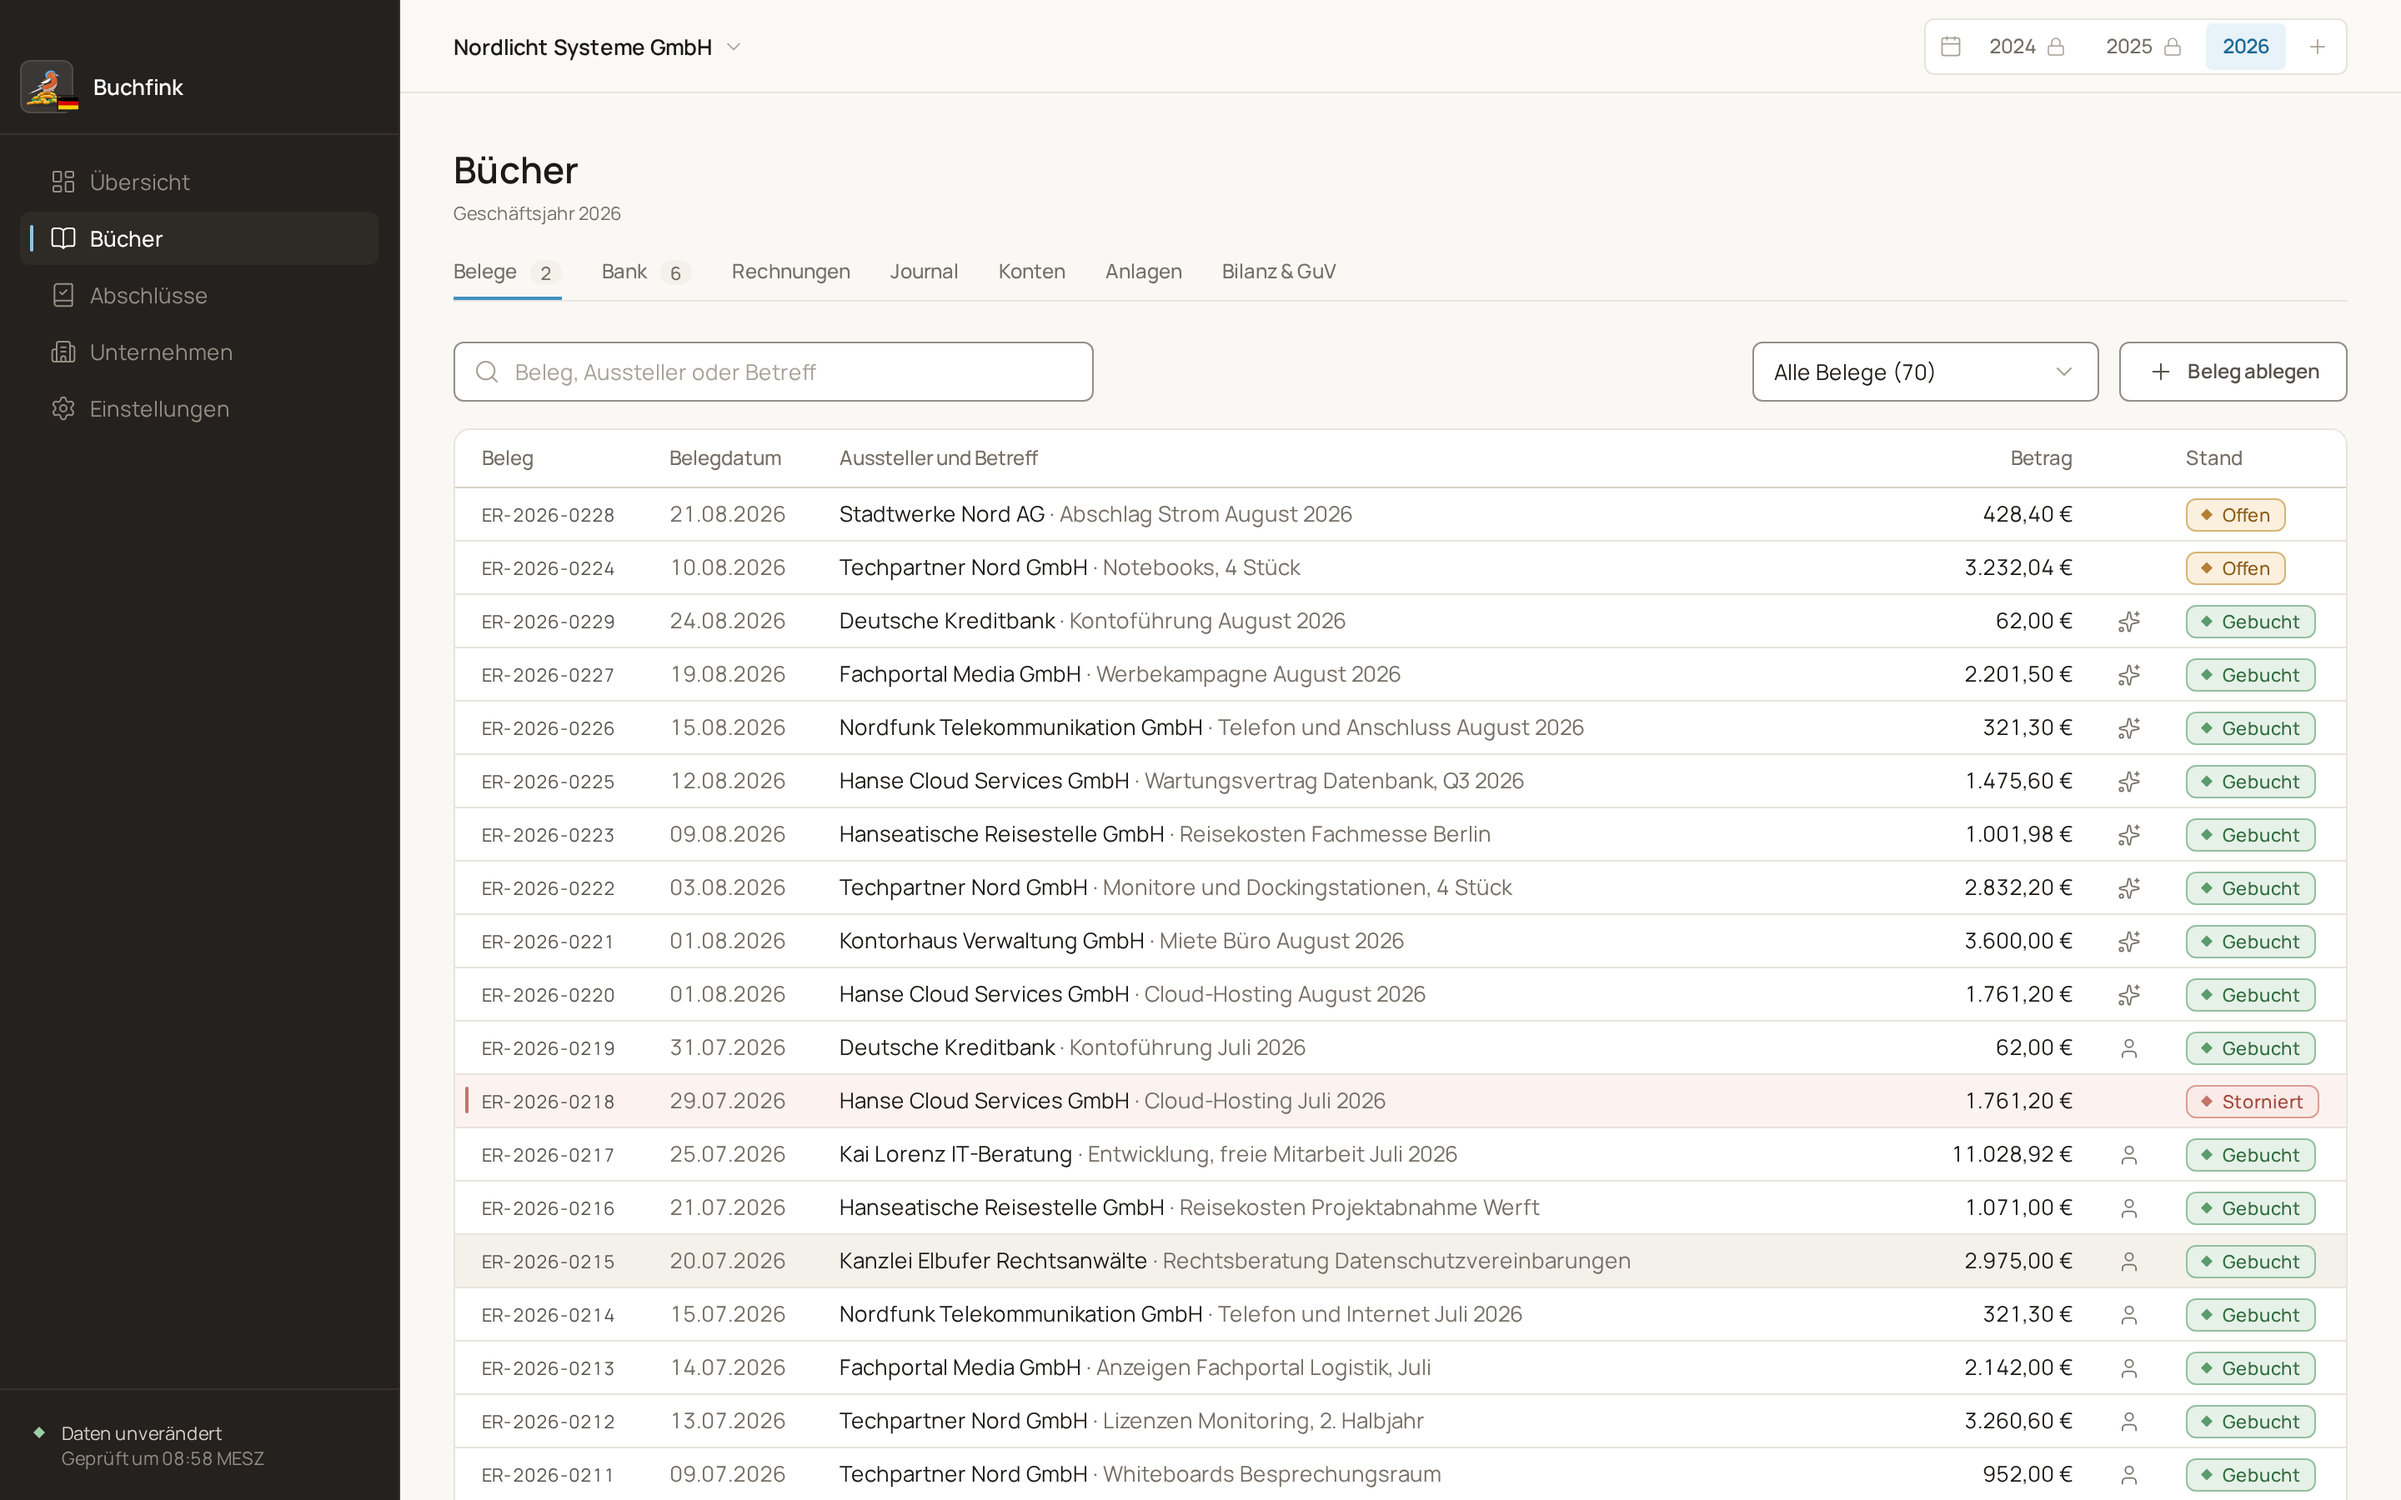
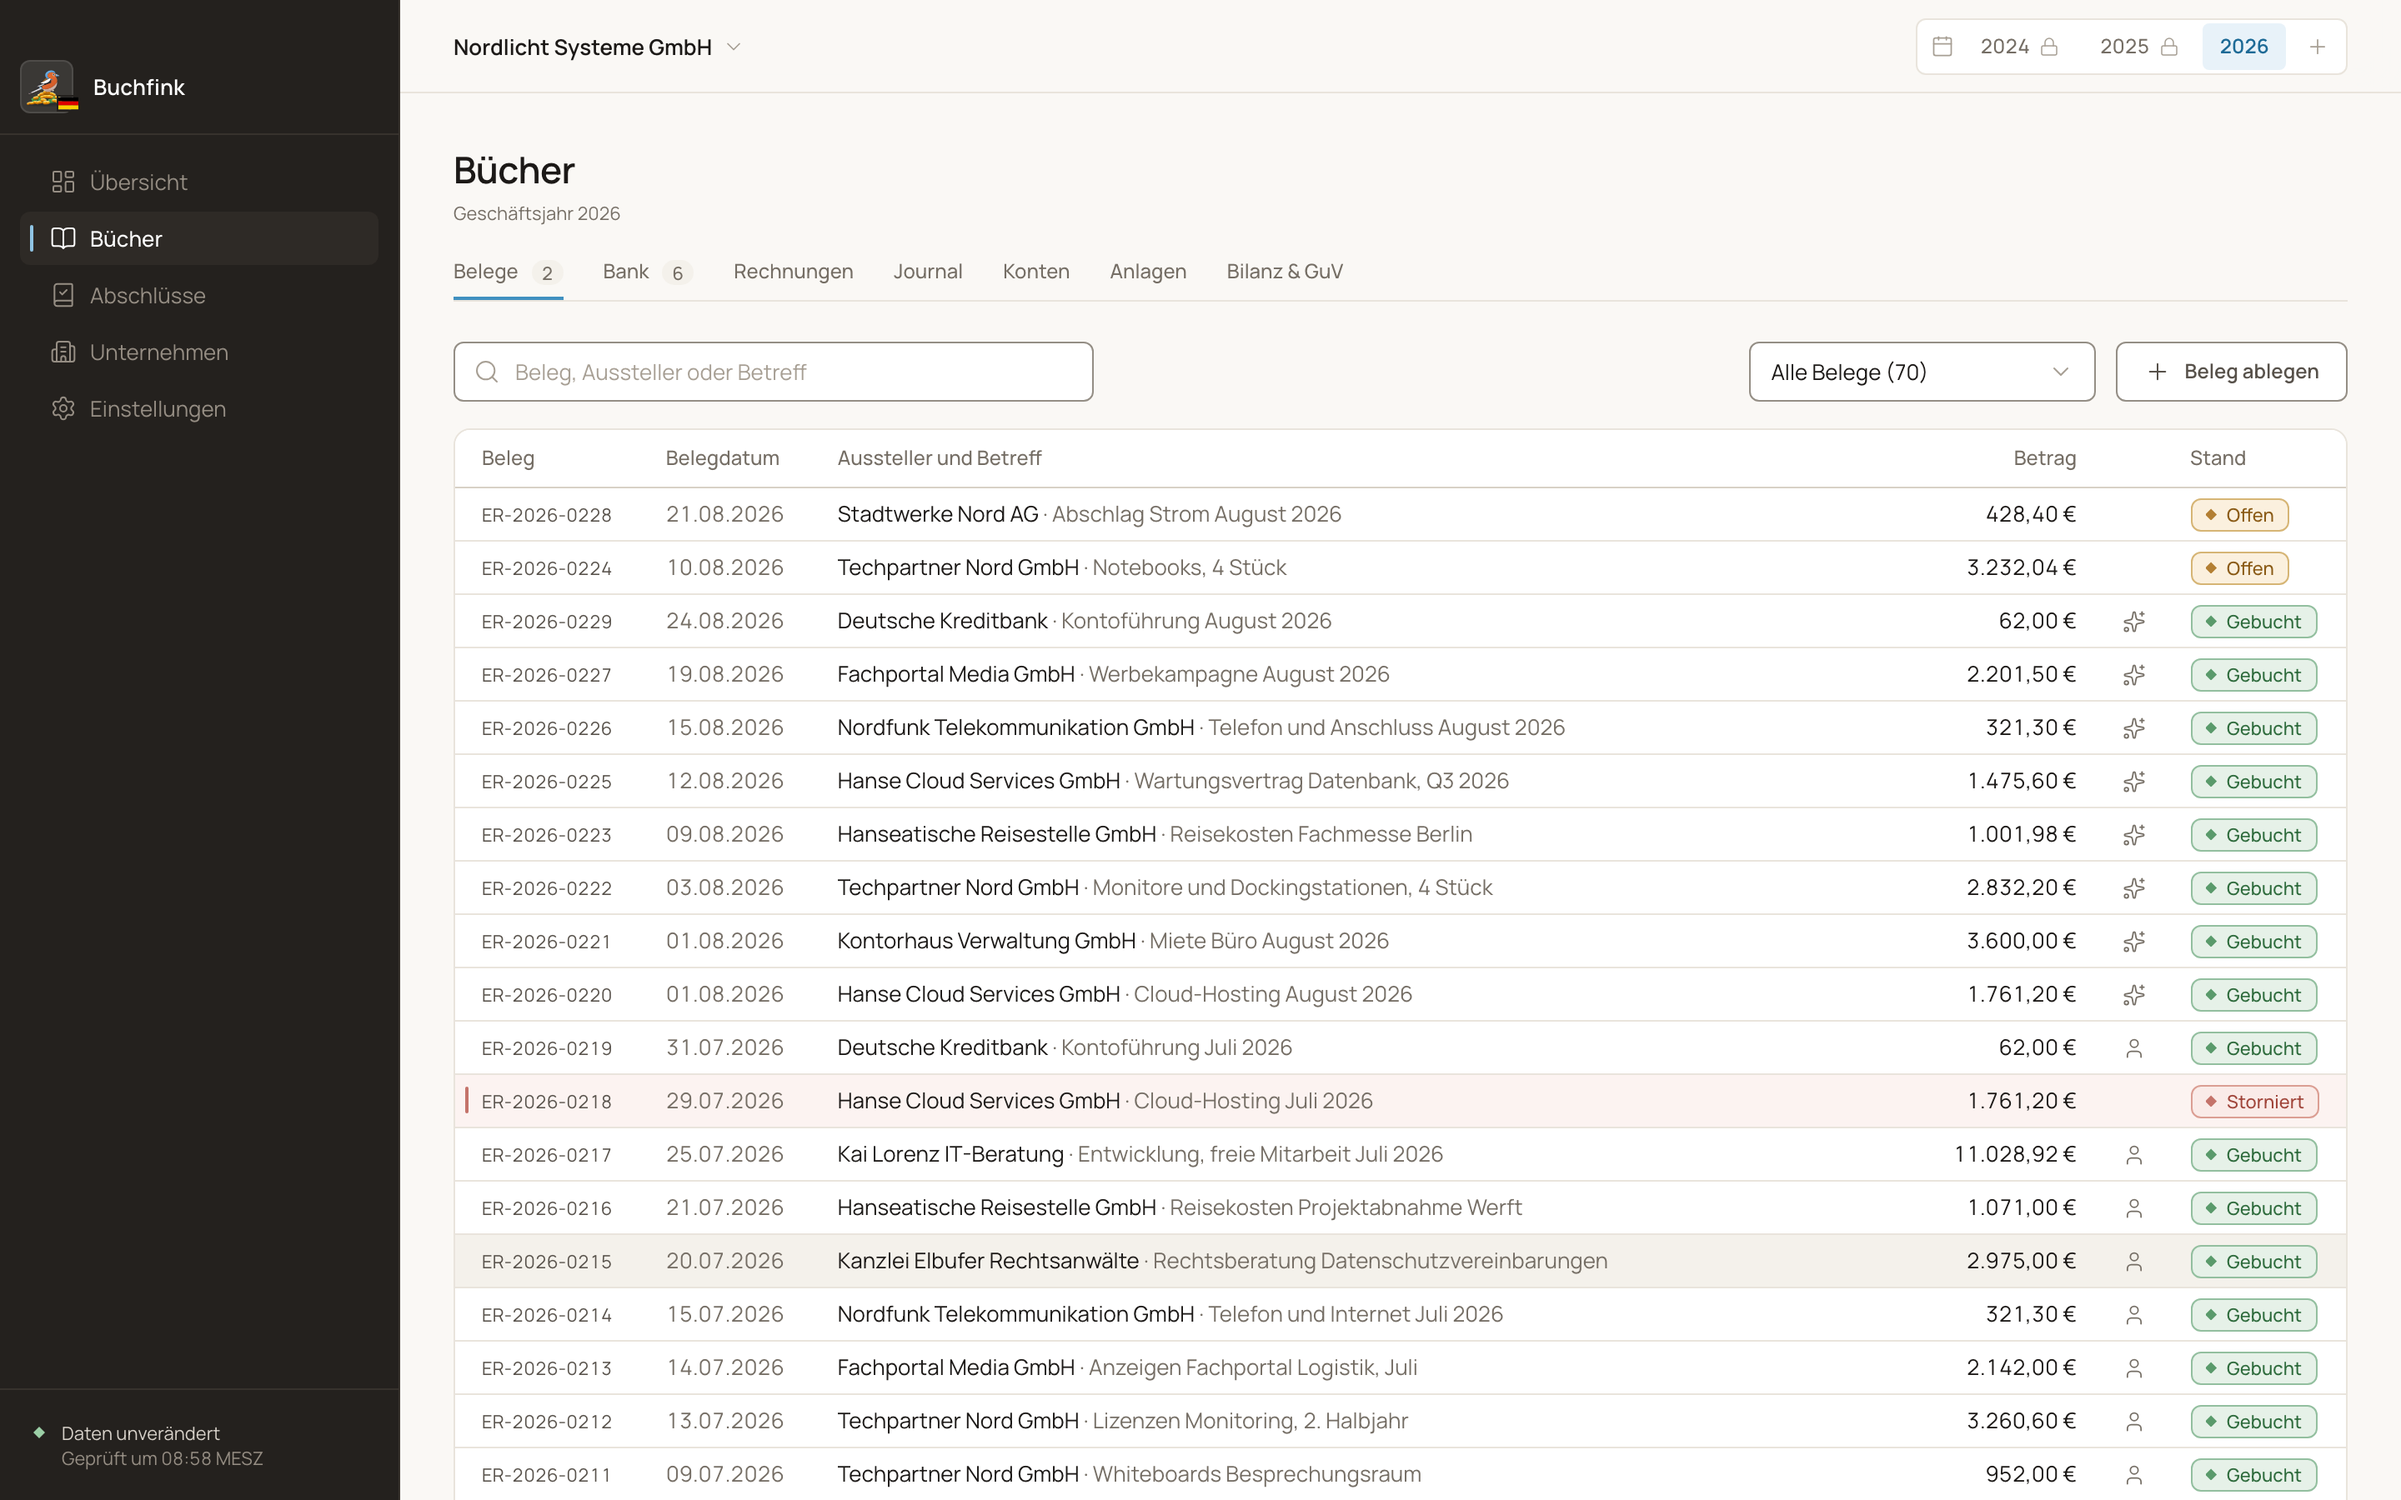
chore(website): Screenshots aus dem aktuellen Stand, Linux-Voraussetzungen
Das Aufnahmeskript lief nicht mehr durch: den Beispieldaten fehlte
needsBooking, und der Festschreibungsdialog zeigt „Geprüft bis …“ statt
einzelner Zahlen. Alle Bilder sind neu aufgenommen. Die Linux-App baut
scripts/release.sh in golang:1.25-bookworm, also Debian 12 mit glibc 2.36,
nicht Ubuntu 24.04.

diff --git a/website/installation.html b/website/installation.html
@@ -233,8 +233,9 @@
                 <div class="step">
                   <h3 class="step__title">Bibliotheken prüfen</h3>
                   <p class="step__body">
-                    Buchfink ist unter Ubuntu 24.04 für x86-64 gebaut und braucht GTK 3,
-                    WebKitGTK 4.1 und glibc ab Version 2.34. Unter Debian und Ubuntu installiert
+                    Buchfink ist unter Debian 12 für x86-64 gebaut und braucht GTK 3,
+                    WebKitGTK 4.1 und glibc ab Version 2.36, etwa Debian 12 oder Ubuntu 24.04.
+                    Unter Debian und Ubuntu installiert
                     <code>sudo apt install libwebkit2gtk-4.1-0</code> WebKitGTK samt GTK 3, unter
                     Fedora <code>sudo dnf install webkit2gtk4.1</code>.
                   </p>

diff --git a/scripts/site-screenshots/mock-bridge.ts b/scripts/site-screenshots/mock-bridge.ts
@@ -593,6 +593,7 @@ function receipt(doc: (typeof RECEIPT_DOCS)[number]) {
     direction: 'incoming',
     status: doc.status,
     kind: 'invoice',
+    needsBooking: doc.status === 'filed',
     documentDate: doc.date,
     issuerName: doc.issuer,
     subject: doc.subject,
